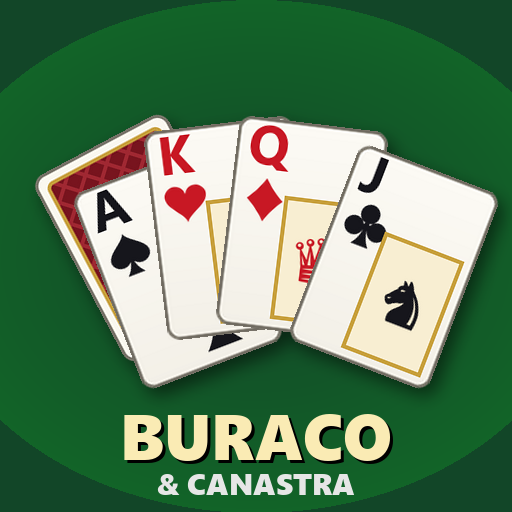
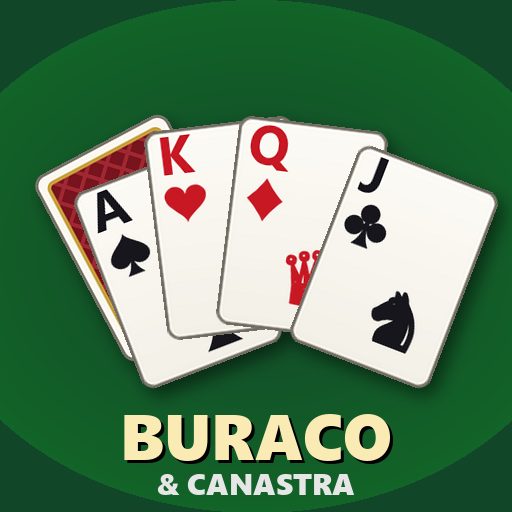
Morto unico no 1x1, troca da primeira carta, destaque da carta pescada e correcoes de interface
- Canastra brasileira: 1 morto no 1x1 e 2 no 2x2; o primeiro jogador pode trocar a primeira carta pescada uma vez
- Carta pescada fica levantada e destacada ate o fim da vez
- Janela de regras abre e permanece na frente da mesa; atualizacoes nao reordenam janelas
- Emblemas de J/Q/K sem o retangulo; status da barra de acoes truncado
- Testes do motor e da interface ampliados

Changed region(s): [[0.6562, 0.4375, 0.9062, 0.75], [0.5, 0.375, 0.6562, 0.625], [0.4062, 0.375, 0.4688, 0.5625]]

diff --git a/tools/generate_textures.py b/tools/generate_textures.py
@@ -150,7 +150,8 @@ def glyph_mask(ch, font_path, fill=0.86, offset=(0, 0)):
 
 def emblems():
     for name, ch in (("king", "\u265A"), ("queen", "\u265B"), ("jack", "\u265E")):
-        mask = glyph_mask(ch, SYMBOL)
+        # thicken the glyph strokes so the figures survive small sizes
+        mask = glyph_mask(ch, SYMBOL, fill=0.84).filter(ImageFilter.MaxFilter(17))
         for px in EMBLEM_SIZES:
             save(export_mask(mask, px), "emblem_%s_%d.png" % (name, px))
 
@@ -344,12 +345,9 @@ def compose_card(rank, suit, w, mini=False, four=False, font_px=None):
         s = int(w * 0.62)
         card.alpha_composite(joker_image(s), (w - s - pad, h - s - pad))
     elif rank in EMBLEM:
-        fx0, fy0 = int(w * 0.36), int(h * 0.36)
-        fx1, fy1 = w - pad, h - pad
-        d.rectangle((fx0, fy0, fx1, fy1), fill=(248, 238, 210, 255), outline=GOLD + (255,), width=max(1, w // 32))
-        s = int(min(fx1 - fx0, fy1 - fy0) * 0.86)
+        s = int(w * 0.6)
         card.alpha_composite(tinted("emblem_%s_%d.png" % (EMBLEM[rank], pick(EMBLEM_SIZES, s)), s, color),
-                             (fx0 + (fx1 - fx0 - s) // 2, fy0 + (fy1 - fy0 - s) // 2))
+                             (w - s - pad + 1, h - s - pad + 1))
     else:
         s = int(w * (0.62 if rank == 1 else 0.5))
         card.alpha_composite(tinted("suit_%s_%d.png" % (suit, pick(SUIT_SIZES, s)), s, color), (w - s - pad, h - s - pad))

diff --git a/README.md b/README.md
@@ -28,7 +28,7 @@ Quando há pontuação mínima para a primeira baixada, os jogos ficam "em esper
 
 ## Variantes incluídas
 
-Buraco aberto, Buraco fechado, STBL (só sequências), Buraco 1 morto, Buraco sem morto, Buraco com coringas, Canastra clássica (trincas, 3 vermelhos, lixo congelado, mínimo progressivo) e Canastra brasileira (lixo só com a carta do topo num jogo, 3 preto e curinga no topo trancam o lixo, 3 vermelho vale 100 e compra outra carta — negativo sem canastra —, 3 preto não entra em jogos, trincas só de A, 4 e K, bate com qualquer canastra). Cada regra pode ser alterada individualmente (vira "Personalizado"): lixo livre ou fechado, lixo visível, sequências/trincas, trincas permitidas, 2 curinga, jokers, curingas por jogo, cartas na mão, compra de 1 ou 2, número e tamanho dos mortos, exigência para bater, bater com descarte, carta virada, lixo congelado, tranca do 3 preto/curinga, 3 vermelhos, mínimo da 1ª baixada, tabela de valores, bônus de canastras e batida, penalidade do morto e pontos para vencer.
+Buraco aberto, Buraco fechado, STBL (só sequências), Buraco 1 morto, Buraco sem morto, Buraco com coringas, Canastra clássica (trincas, 3 vermelhos, lixo congelado, mínimo progressivo) e Canastra brasileira (lixo só com a carta do topo num jogo, 3 preto e curinga no topo trancam o lixo, 3 vermelho vale 100 e compra outra carta — negativo sem canastra —, 3 preto não entra em jogos, trincas só de A, 4 e K, bate com qualquer canastra, 1 morto no 1x1 e 2 no 2x2, quem começa pode trocar a primeira carta comprada). Cada regra pode ser alterada individualmente (vira "Personalizado"): lixo livre ou fechado, lixo visível, sequências/trincas, trincas permitidas, 2 curinga, jokers, curingas por jogo, cartas na mão, compra de 1 ou 2, número e tamanho dos mortos, exigência para bater, bater com descarte, carta virada, lixo congelado, tranca do 3 preto/curinga, 3 vermelhos, mínimo da 1ª baixada, tabela de valores, bônus de canastras e batida, penalidade do morto e pontos para vencer.
 
 ## Opções de sandbox
 
